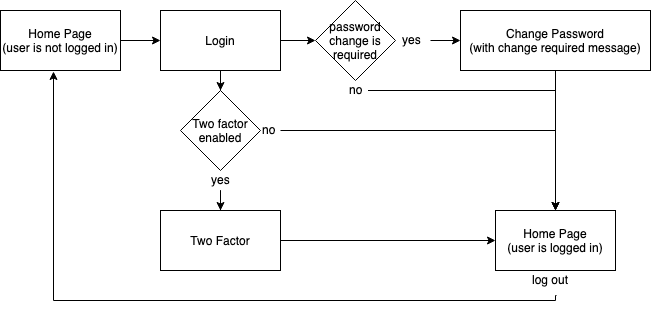
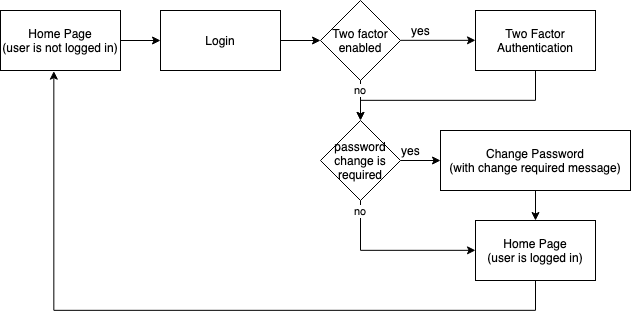
Fix log in/out image

diff --git a/README.md b/README.md
@@ -18,14 +18,14 @@ For this example there will be three `localhost` servers running:
 * `localhost:3000` -- A lightweight node server that handles requests that require an API key
 * `localhost:4200` -- The Angular example app
 
-```console
-$ git clone https://github.com/fusionauth/fusionauth-angular-example
-$ cd fusionauth-angular-example/angular
-angular $ npm install
-angular $ ng serve
-angular $ cd ../server
-server $ npm install
-server $ node server.js
+```
+git clone https://github.com/fusionauth/fusionauth-angular-example
+cd fusionauth-angular-example/angular
+npm install
+ng serve
+cd ../server
+npm install
+node server.js
 ```
 
 
